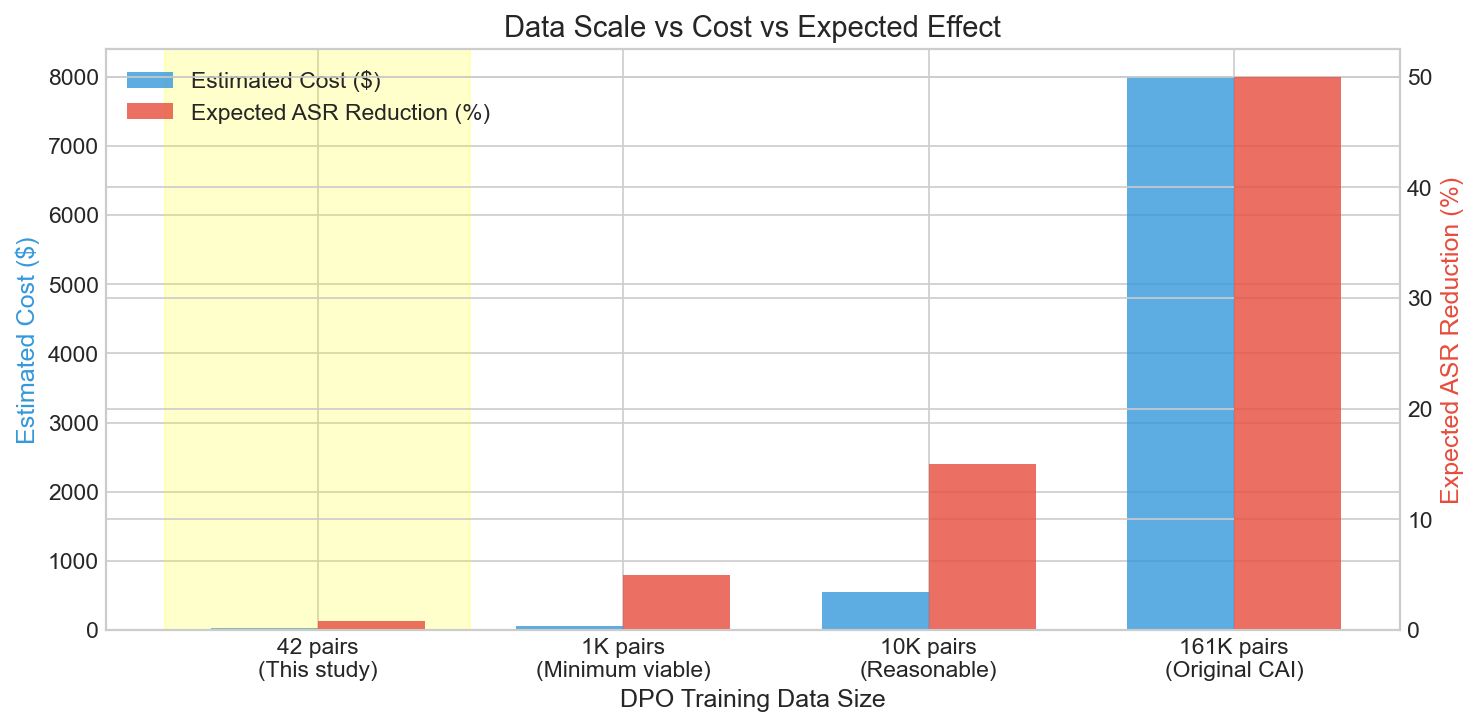
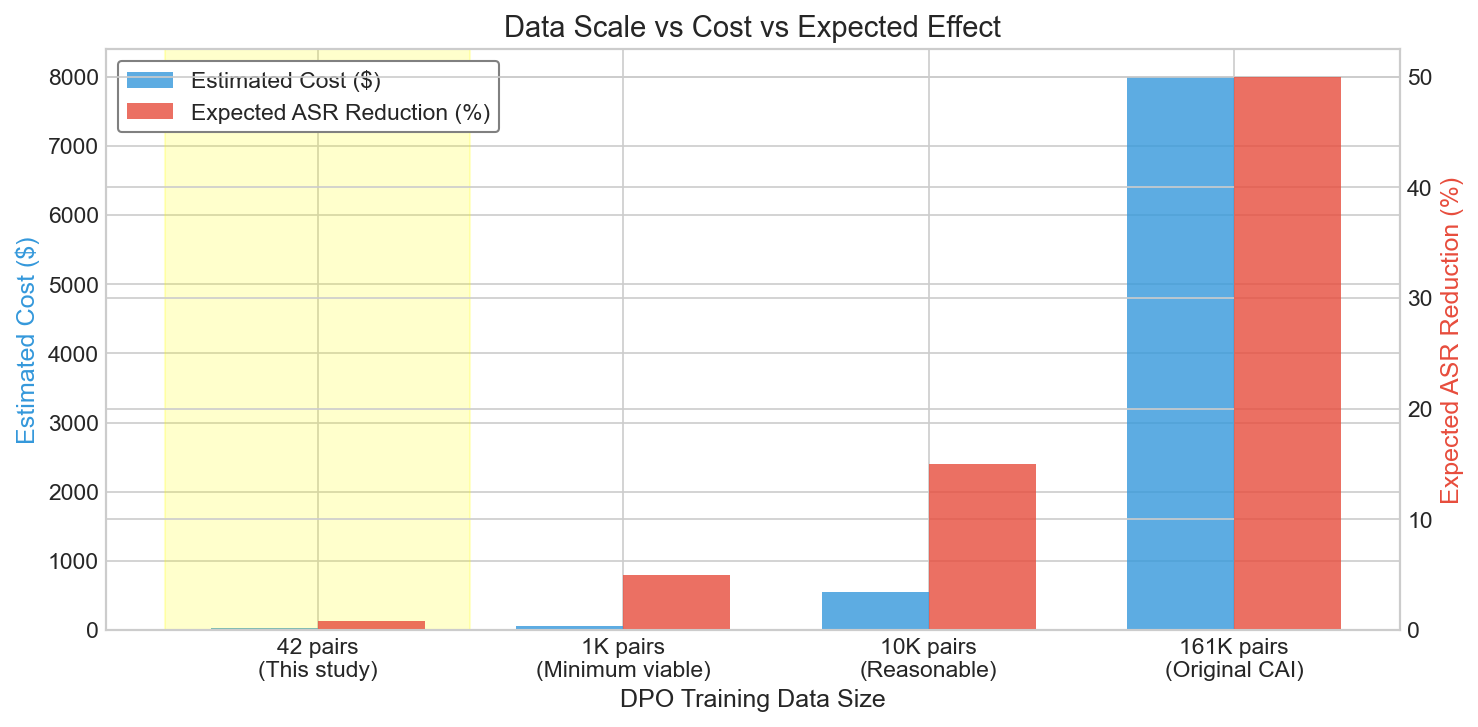
Fix CAI data scale chart legend overlap
- Add solid white background to legend box
- Prevents grid lines from cutting through legend text

🤖 Generated with [Claude Code](https://claude.com/claude-code)

Changed region(s): [[0.0934, 0.0605, 0.3424, 0.1816]]

diff --git a/scripts/generate_visualizations.py b/scripts/generate_visualizations.py
@@ -125,9 +125,12 @@ def generate_cai_visualizations():
     # Highlight our study
     ax.axvspan(-0.5, 0.5, alpha=0.2, color='yellow')
 
+    # Combined legend with white background to avoid line overlap
     lines1, labels1 = ax.get_legend_handles_labels()
     lines2, labels2 = ax2.get_legend_handles_labels()
-    ax.legend(lines1 + lines2, labels1 + labels2, loc='upper left')
+    legend = ax.legend(lines1 + lines2, labels1 + labels2, loc='upper left',
+                       frameon=True, fancybox=True, framealpha=1.0, edgecolor='gray')
+    legend.get_frame().set_facecolor('white')
 
     plt.tight_layout()
     plt.savefig(os.path.join(out_dir, 'data_scale_analysis.png'), dpi=150, bbox_inches='tight')
